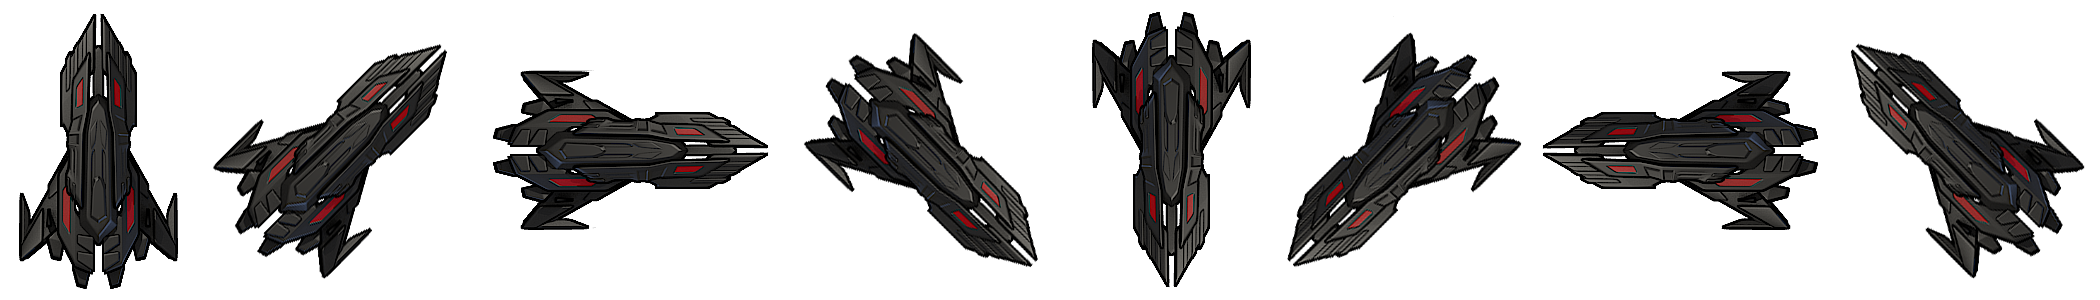
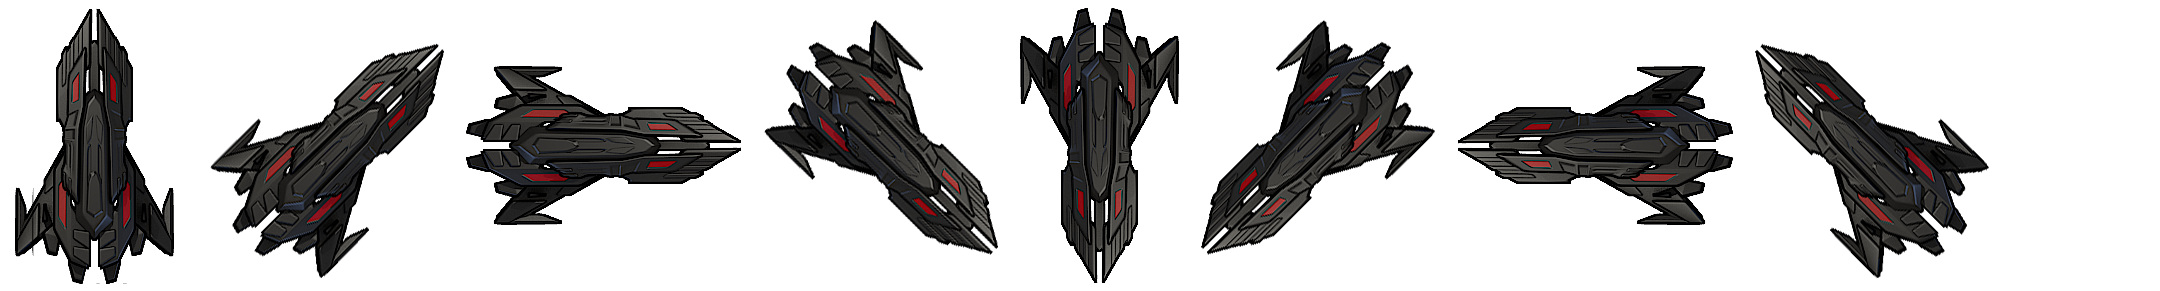
Update ship and bullet sprite. Fix spawn bug where bullets dont collide with asteroids.

diff --git a/lib/ship.js b/lib/ship.js
@@ -29,7 +29,7 @@
   Ship.prototype.fireBullet = function () {
     var bullet = new window.Asteroids.Bullet({
       game: this.game,
-      pos: this.pos,
+      pos: [this.pos[0] + 15, this.pos[1]],
       vel: this.vel
     });
 
@@ -38,52 +38,52 @@
 
   Ship.prototype.draw = function(ctx) {
     if (this.vel[0] === 0 && this.vel[1] > 0) {
-      sx = 1090;
-      sy = 1;
-      sWidth = 180;
-      sHeight = 290
+      sx = 1000;
+      sy = 0;
+      sWidth = 195;
+      sHeight = 295;
       dWidth = 50;
       dHeight = 80;
     } else if (this.vel[0] === 0 && this.vel[1] < 0) {
-      sx = 15;
-      sy = 1;
-      sWidth = 180;
-      sHeight = 290;
+      sx = 0;
+      sy = 0;
+      sWidth = 195;
+      sHeight = 295;
       dWidth = 50;
       dHeight = 80;
     } else if (this.vel[0] > 0 && this.vel[1] === 0) {
-      sx = 490;
-      sy = 70;
-      sWidth = 290;
-      sHeight = 180;
+      sx = 470;
+      sy = 50;
+      sWidth = 295;
+      sHeight = 195;
       dWidth = 80;
       dHeight = 50;
     } else if (this.vel[0] < 0 && this.vel[1] === 0) {
-      sx = 1545;
-      sy = 70;
-      sWidth = 290;
-      sHeight = 180;
+      sx = 1450;
+      sy = 50;
+      sWidth = 295;
+      sHeight = 195;
       dWidth = 80;
       dHeight = 50;
     } else if (this.vel[0] < 0 && this.vel[1] < 0) {
-      sx = 1855;
+      sx = 1750;
       sy = 40;
       sWidth = 245;
       sHeight = 250;
       dWidth = 75;
       dHeight = 60;
     } else if (this.vel[0] < 0 && this.vel[1] > 0) {
-      sx = 1290;
+      sx = 1200;
       sy = 30;
-      sWidth = 245;
-      sHeight = 250;
+      sWidth = 250;
+      sHeight = 260;
       dWidth = 75;
       dHeight = 60;
     } else if (this.vel[0] > 0 && this.vel[1] > 0) {
-      sx = 800;
+      sx = 760;
       sy = 30;
-      sWidth = 245;
-      sHeight = 250;
+      sWidth = 250;
+      sHeight = 260;
       dWidth = 75;
       dHeight = 60;
     } else if (this.vel[0] > 0 && this.vel[1] < 0) {
@@ -94,10 +94,10 @@
       dWidth = 75;
       dHeight = 60;
     } else {
-      sx = 15;
-      sy = 1;
-      sWidth = 180;
-      sHeight = 290;
+      sx = 0;
+      sy = 0;
+      sWidth = 195;
+      sHeight = 295;
       dWidth = 50;
       dHeight = 80;
     }

diff --git a/lib/bullet.js b/lib/bullet.js
@@ -15,7 +15,7 @@
 
   Bullet.SPEED = 7;
   Bullet.RADIUS = 10;
-  Bullet.COLOR = "yellow";
+  Bullet.COLOR = "orange";
 
   Bullet.prototype.isWrappable = false;
 
@@ -44,17 +44,17 @@
 
   Bullet.prototype.draw = function (ctx) {
     image = new Image();
-    image.src = 'images/bullets.png';
+    image.src = 'images/bullet_sprite.png';
     ctx.drawImage(
       image,
-      25,
-      1,
-      23,
-      23,
+      3,
+      75,
+      22,
+      22,
       this.pos[0],
       this.pos[1],
-      46,
-      46
+      20,
+      20
     );
   };
 })();

diff --git a/lib/asteroid.js b/lib/asteroid.js
@@ -19,8 +19,11 @@
   Asteroid.COLOR = "gray";
 
   Asteroid.prototype.collideWith = function (otherObject) {
-    this.game.remove(this);
-    this.game.remove(otherObject);
+    if ((otherObject instanceof window.Asteroids.Ship && !otherObject.invincible) ||
+        !otherObject instanceof window.Asteroids.Ship) {
+      this.game.remove(this);
+      this.game.remove(otherObject);
+    }
   };
 
   Asteroid.prototype.draw = function (ctx) {

diff --git a/lib/gameView.js b/lib/gameView.js
@@ -40,9 +40,7 @@
       }
       vx -= 2;
 
-      if (!this.game.ships[0].invincible) {
-        this.game.checkCollisions();
-      }
+      this.game.checkCollisions();
       this.game.draw(ctx);
 
       if (this.game.ships.length === 0) {
